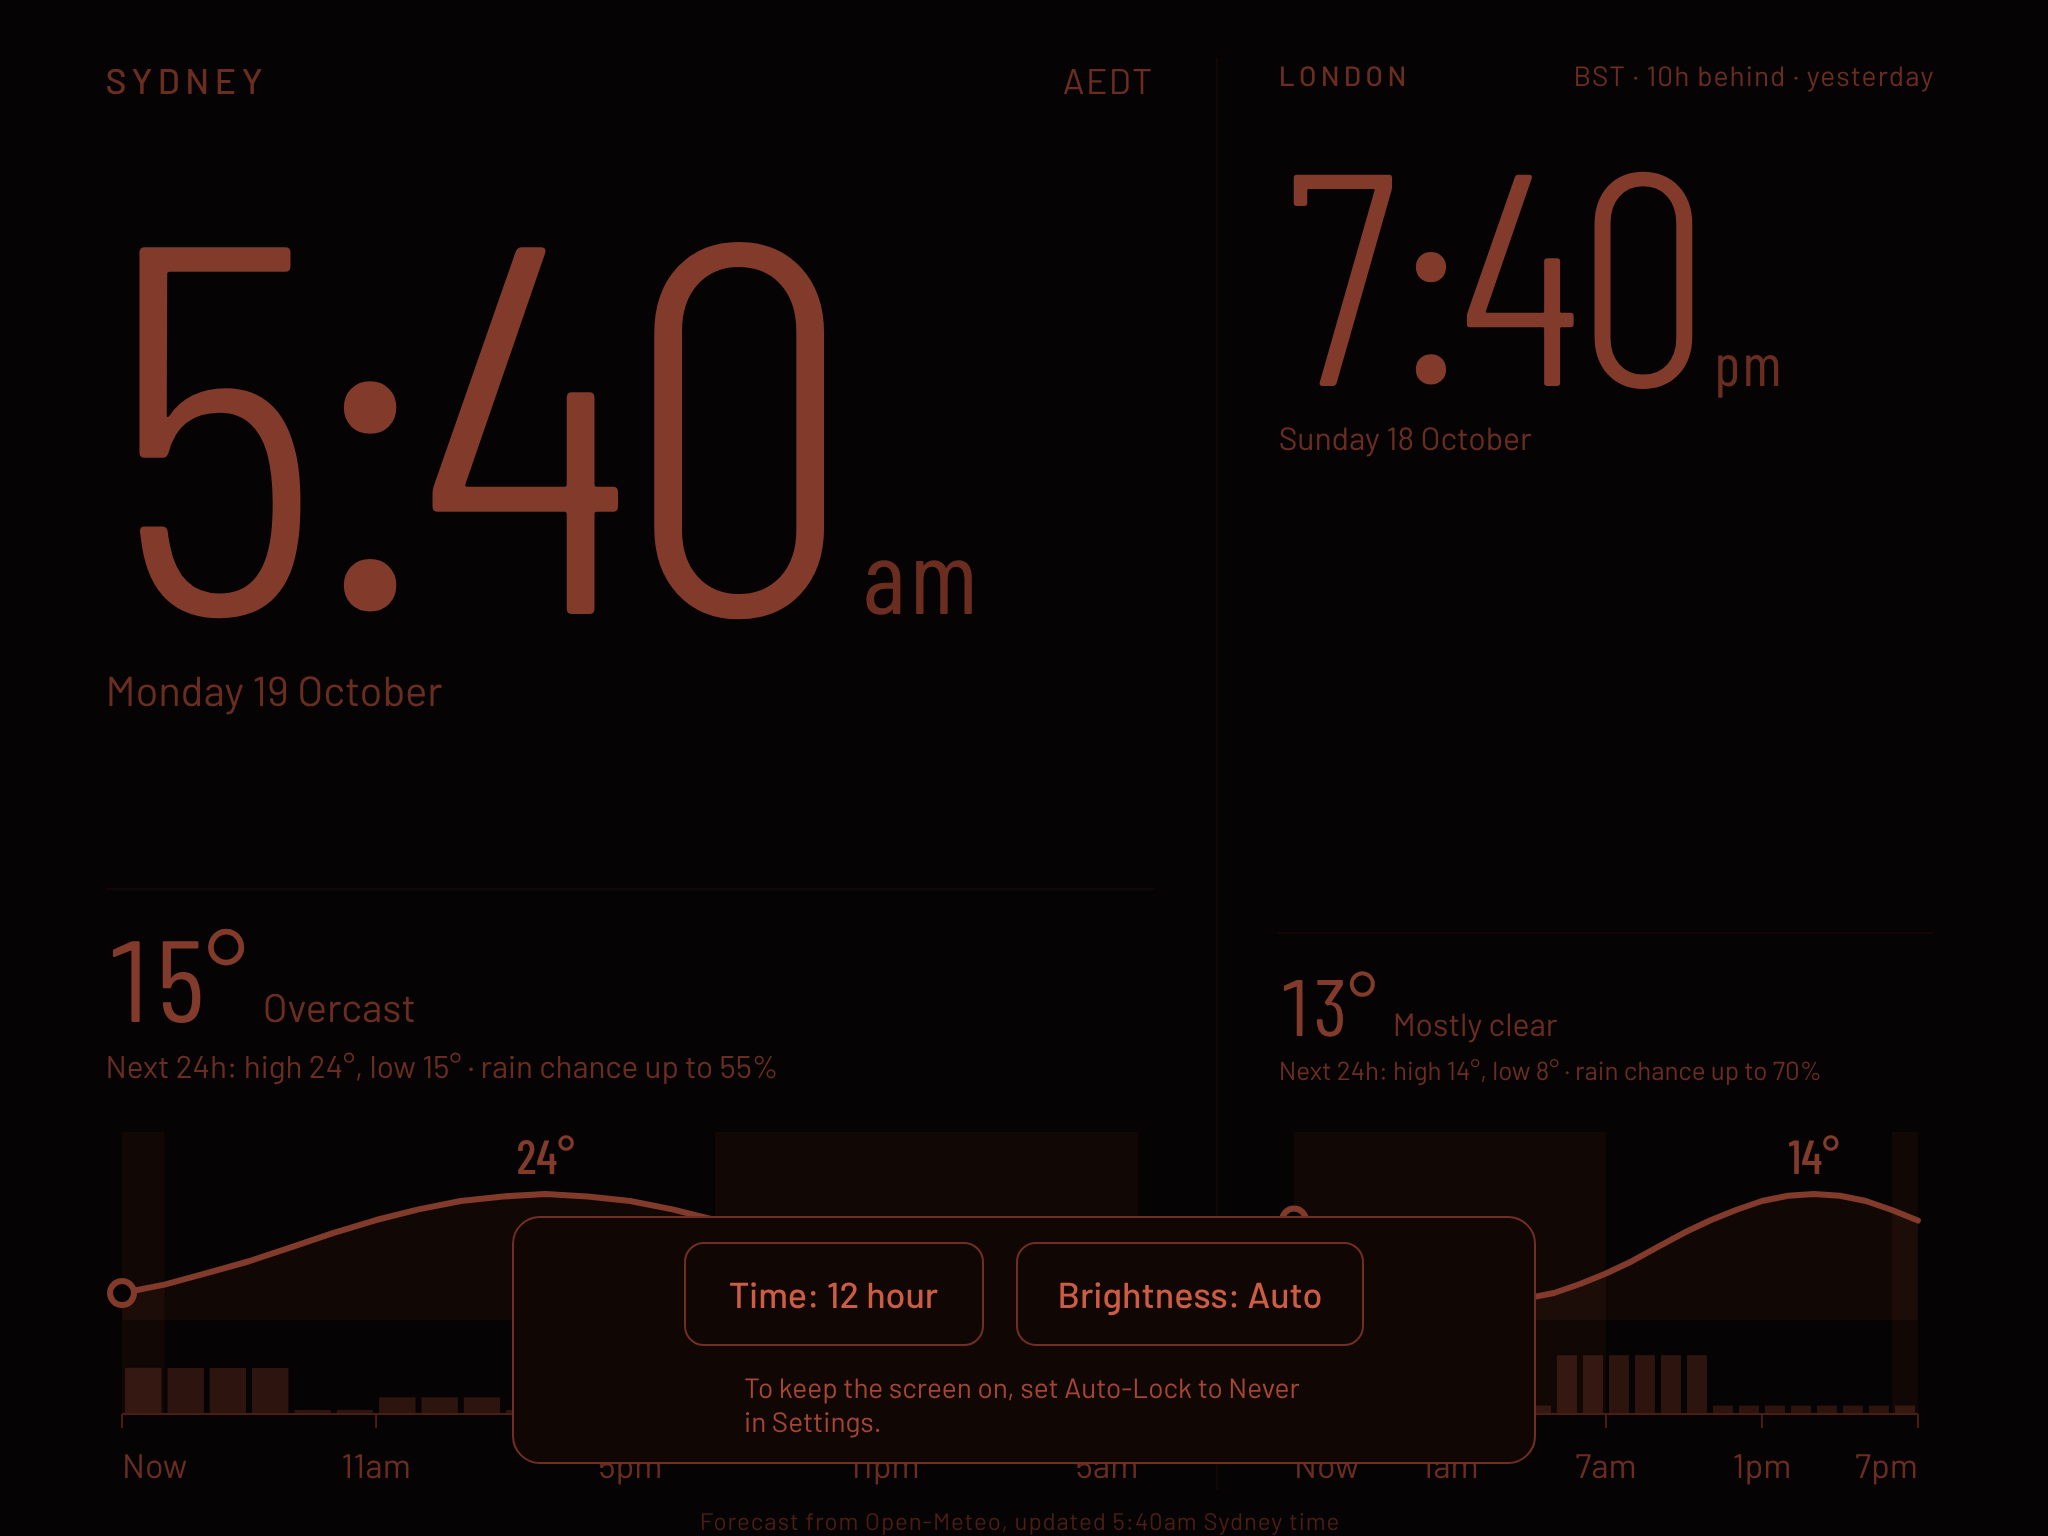
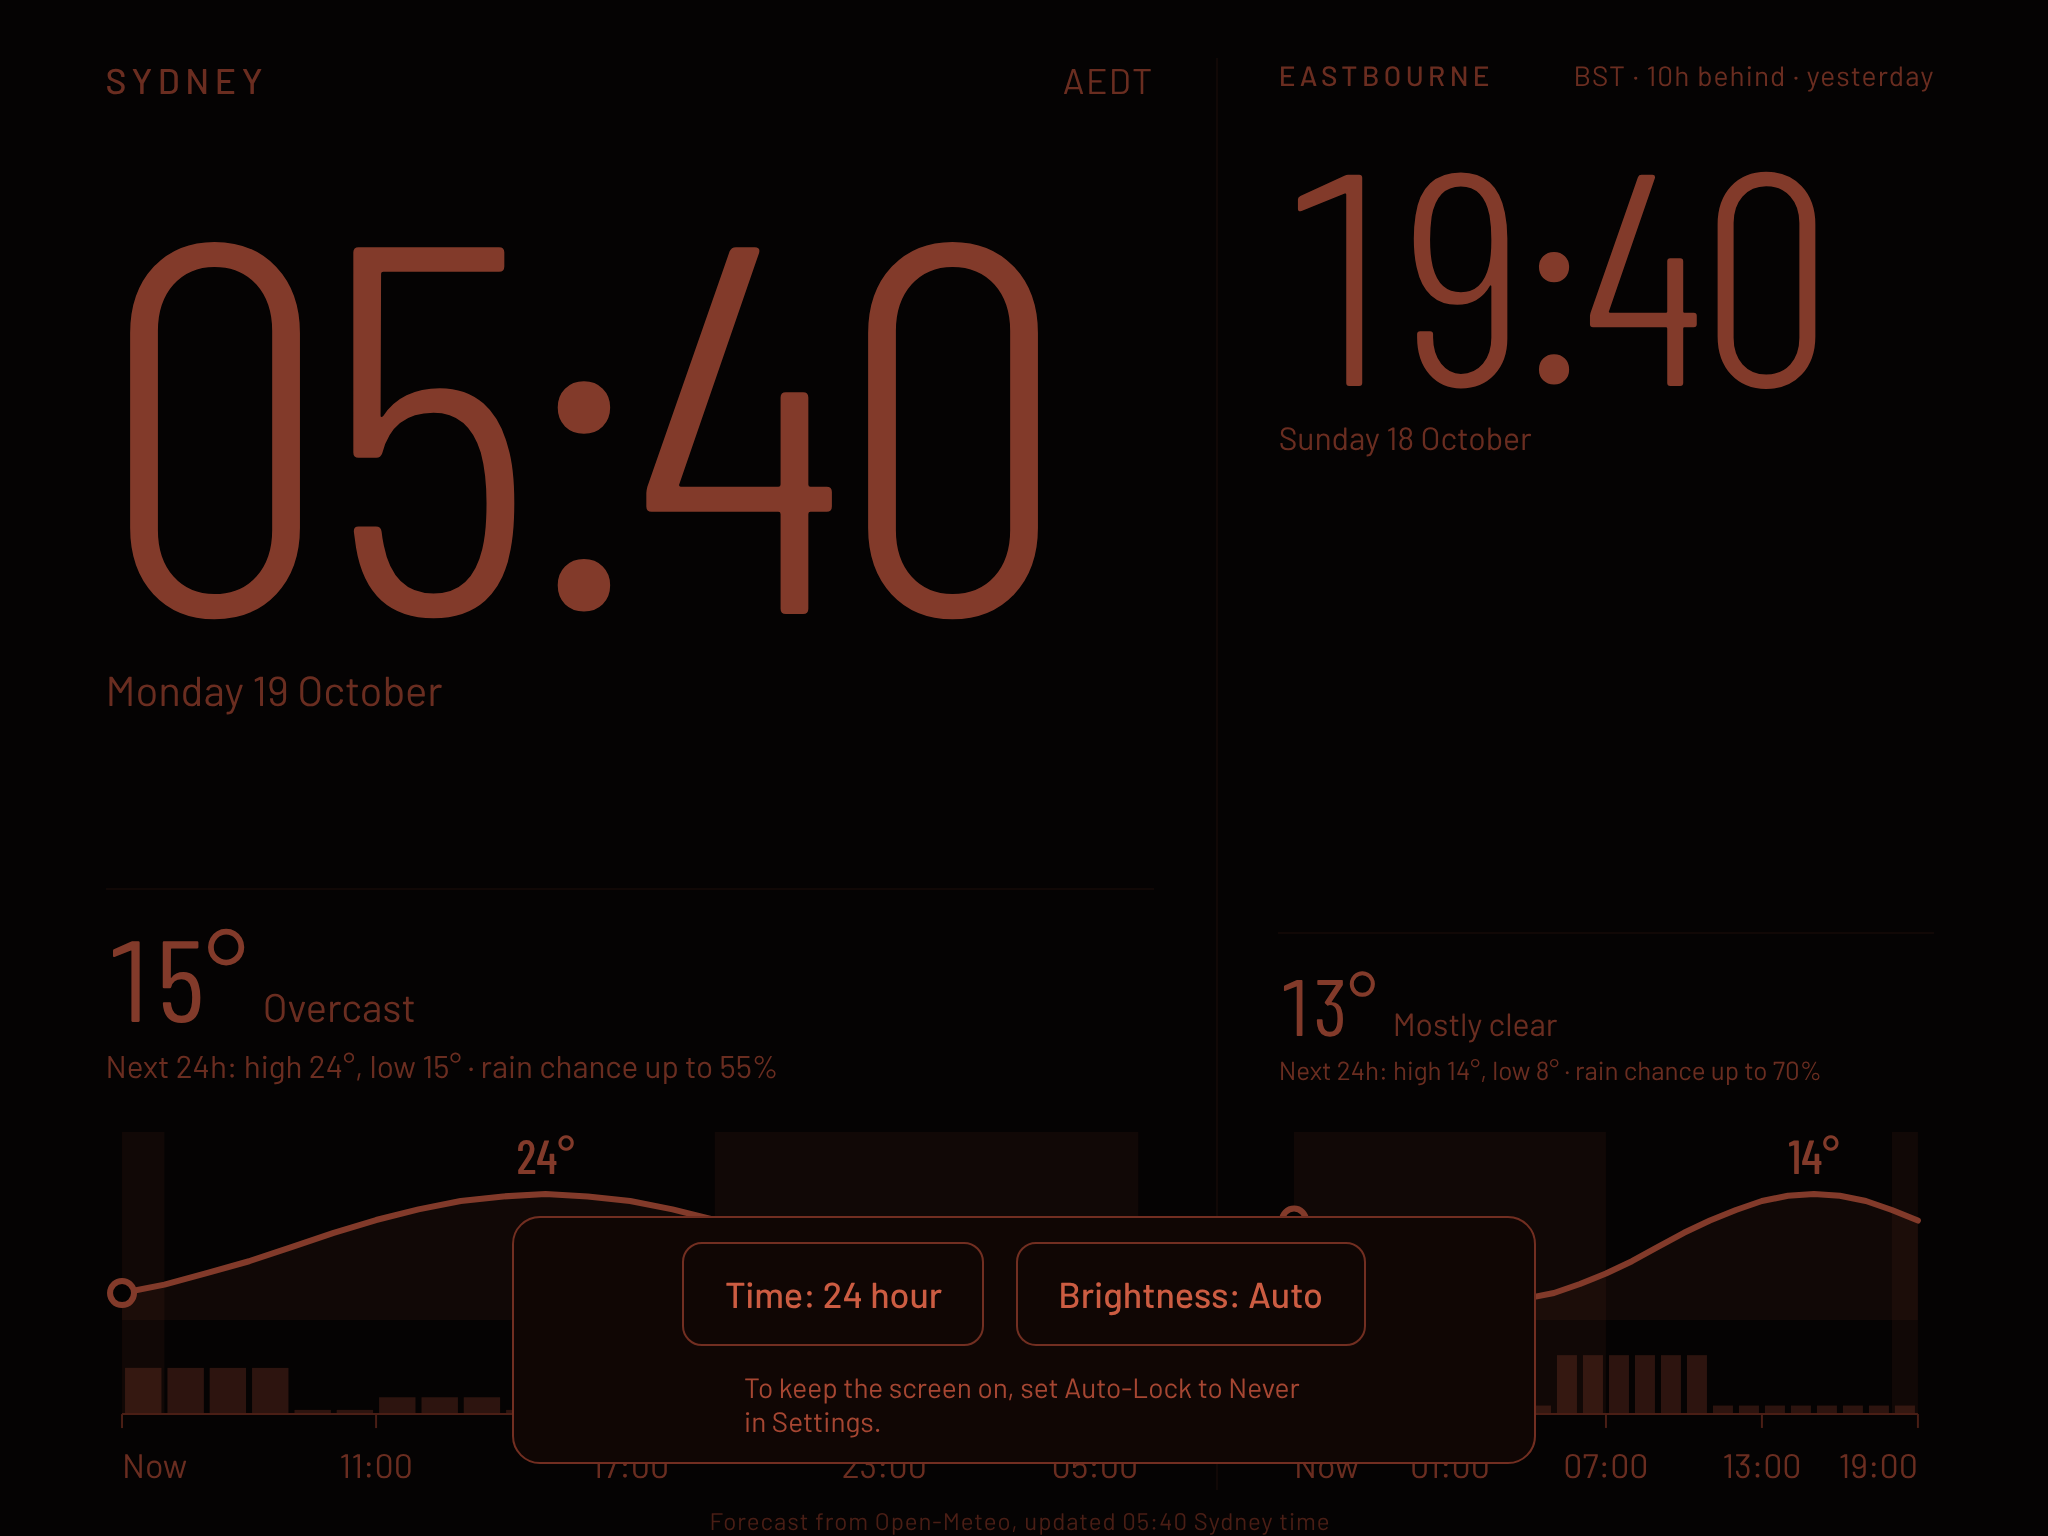
Use Eastbourne for the UK clock, default to 24 hour, landscape first
Customer decisions from the first show and tell: second place is
Eastbourne, East Sussex; 24 hour time by default; landscape layout.

Claude-Session: https://claude.ai/code/session_01LHKBPoX4shMzbvKjK3tPdX

diff --git a/app.js b/app.js
@@ -1,13 +1,13 @@
-/* Night Clock: Sydney and London time, plus a 24 hour forecast for both.
+/* Night Clock: Sydney and Eastbourne time, plus a 24 hour forecast for both.
    Plain JavaScript, no build step. Written for Safari 17 (iPad 6th generation). */
 (function () {
   'use strict';
 
   var CITIES = {
     syd: { name: 'Sydney', tz: 'Australia/Sydney', lat: -33.92, lon: 151.13 },
-    lon: { name: 'London', tz: 'Europe/London', lat: 51.51, lon: -0.13 }
+    uk: { name: 'Eastbourne', tz: 'Europe/London', lat: 50.77, lon: 0.29 }
   };
-  var KEYS = ['syd', 'lon'];
+  var KEYS = ['syd', 'uk'];
   var MONTHS = ['January', 'February', 'March', 'April', 'May', 'June', 'July',
                 'August', 'September', 'October', 'November', 'December'];
   var DIM_MODES = ['auto', 'bright', 'dim', 'dimmest'];
@@ -35,7 +35,7 @@
     }
   };
 
-  var hour12 = store.get('hour12', true) !== false;
+  var hour12 = store.get('hour12', false) === true;  // 24 hour unless the user switches
   var dimMode = store.get('dim', 'auto');
   if (DIM_MODES.indexOf(dimMode) < 0) dimMode = 'auto';
 
@@ -72,7 +72,7 @@
   }
 
   function zoneName(key, off) {
-    if (key === 'lon') return off === 0 ? 'GMT' : off === 60 ? 'BST' : offsetText(off);
+    if (key === 'uk') return off === 0 ? 'GMT' : off === 60 ? 'BST' : offsetText(off);
     return off === 660 ? 'AEDT' : off === 600 ? 'AEST' : offsetText(off);
   }
 
@@ -130,12 +130,12 @@
 
     setText(els.syd.meta, 'sydmeta', zoneName('syd', off.syd));
 
-    var gapMin = off.syd - off.lon;
+    var gapMin = off.syd - off.uk;
     var gapH = Math.abs(gapMin) / 60;
     var gapText = (gapH % 1 ? gapH.toFixed(1) : gapH) + 'h ' + (gapMin >= 0 ? 'behind' : 'ahead');
-    var dk = dayKey(z.lon) - dayKey(z.syd);
+    var dk = dayKey(z.uk) - dayKey(z.syd);
     var dayWord = dk < 0 ? ' · yesterday' : dk > 0 ? ' · tomorrow' : '';
-    setText(els.lon.meta, 'lonmeta', zoneName('lon', off.lon) + ' · ' + gapText + dayWord);
+    setText(els.uk.meta, 'ukmeta', zoneName('uk', off.uk) + ' · ' + gapText + dayWord);
 
     // brightness
     var level = dimMode === 'auto'
@@ -187,8 +187,8 @@
 
   function loadWeather() {
     var url = 'https://api.open-meteo.com/v1/forecast'
-      + '?latitude=' + CITIES.syd.lat + ',' + CITIES.lon.lat
-      + '&longitude=' + CITIES.syd.lon + ',' + CITIES.lon.lon
+      + '?latitude=' + CITIES.syd.lat + ',' + CITIES.uk.lat
+      + '&longitude=' + CITIES.syd.lon + ',' + CITIES.uk.lon
       + '&hourly=temperature_2m,precipitation_probability,weather_code,is_day'
       + '&timezone=GMT&forecast_days=3';
     var ctl = typeof AbortController !== 'undefined' ? new AbortController() : null;
@@ -201,7 +201,7 @@
       })
       .then(function (data) {
         var arr = Array.isArray(data) ? data : [data];
-        var next = { fetchedAt: Date.now(), syd: parseCity(arr[0]), lon: parseCity(arr[1]) };
+        var next = { fetchedAt: Date.now(), syd: parseCity(arr[0]), uk: parseCity(arr[1]) };
         weather = next;
         store.set('wx', next);
         renderWeather();

diff --git a/index.html b/index.html
@@ -39,22 +39,22 @@
     </div>
   </section>
 
-  <section class="city" id="city-lon" aria-label="London">
+  <section class="city" id="city-uk" aria-label="Eastbourne">
     <div class="top">
       <header class="city-head">
-        <span class="city-name">London</span>
-        <span class="city-meta" id="lon-meta"></span>
+        <span class="city-name">Eastbourne</span>
+        <span class="city-meta" id="uk-meta"></span>
       </header>
-      <div class="time"><span id="lon-hm">--:--</span><span class="ap" id="lon-ap"></span></div>
-      <div class="date" id="lon-date"></div>
+      <div class="time"><span id="uk-hm">--:--</span><span class="ap" id="uk-ap"></span></div>
+      <div class="date" id="uk-date"></div>
     </div>
     <div class="wx">
       <div class="wx-now">
-        <span class="wx-temp" id="lon-temp">--°</span>
-        <span class="wx-desc" id="lon-desc">Loading forecast</span>
+        <span class="wx-temp" id="uk-temp">--°</span>
+        <span class="wx-desc" id="uk-desc">Loading forecast</span>
       </div>
-      <div class="wx-range" id="lon-range"></div>
-      <div class="wx-chart" id="lon-chart"></div>
+      <div class="wx-range" id="uk-range"></div>
+      <div class="wx-chart" id="uk-chart"></div>
     </div>
   </section>
 

diff --git a/styles.css b/styles.css
@@ -188,7 +188,7 @@ body { font-family: var(--body); }
   #app { padding-top: max(20px, env(safe-area-inset-top)); padding-bottom: max(24px, env(safe-area-inset-bottom)); }
   .city { gap: 8px; }
   #city-syd .time { font-size: 21cqw; }
-  #city-lon .time { font-size: 18cqw; }
+  #city-uk .time { font-size: 18cqw; }
   .wx { padding-top: 8px; }
   .wx-temp { font-size: 52px; }
 }

diff --git a/docs/requirements.md b/docs/requirements.md
@@ -5,7 +5,7 @@ Working agreement: small increments, a show and tell after each one, and the cus
 
 ## Vision
 
-An old iPad (6th generation) lives on a bedside table and works as a night clock. At a glance, in the dark, it shows the time in Sydney and London and the weather for the next 24 hours in both places. It never lights up the room.
+An old iPad (6th generation) lives on a bedside table and works as a night clock. At a glance, in the dark, it shows the time in Sydney and in the UK (Eastbourne) and the weather for the next 24 hours in both places. It never lights up the room.
 
 ## Constraints
 
@@ -22,13 +22,13 @@ Status key: Built means the code exists and passed my own render checks. Accepte
 | ID | Story | Acceptance criteria | Status |
 |----|-------|---------------------|--------|
 | S1 | As the sleeper, I can read the Sydney time at a glance in a dark room. | Large digits, warm red on black, readable from across the room, no seconds ticking. | Built |
-| S2 | I can see the London time and how far apart the two cities are. | London time shown with its zone (GMT or BST), the gap in hours, and whether it is yesterday or tomorrow there. Correct across both daylight saving changes. | Built |
+| S2 | I can see the UK time and how far apart the two places are. | Eastbourne (UK) time shown with its zone (GMT or BST), the gap in hours, and whether it is yesterday or tomorrow there. Correct across both daylight saving changes. | Built |
 | S3 | The screen dims itself at night and I can override it. | Auto mode dims between 9pm and 6am Sydney time. Tap to choose Auto, Bright, Dim or Dimmest. Choice is remembered. | Built |
-| S4 | I can see the forecast for the next 24 hours in both cities. | Per city: temperature now, conditions, high and low, rain chance, and an hourly chart for the next 24 hours with night hours shaded. Refreshes by itself every 30 minutes. | Built |
+| S4 | I can see the forecast for the next 24 hours in both cities. | Per place: temperature now, conditions, high and low, rain chance, and an hourly chart for the next 24 hours with night hours shaded. Refreshes by itself every 30 minutes. | Built |
 | S5 | The display keeps working if the network drops. | Last forecast is kept and shown, with a note of when it was fetched. Clock never depends on the network. | Built |
 | S6 | The screen protects itself from burn-in. | Content shifts a few pixels every minute. | Built |
 | S7 | I can put it on the Home Screen and it opens full screen. | Home Screen icon, no Safari toolbar, black status bar. | Built |
-| S8 | I can switch between 12 and 24 hour time. | One tap, remembered. Also applies to the chart hour labels. | Built |
+| S8 | I can switch between 24 and 12 hour time. | 24 hour by default. One tap to switch, remembered. Also applies to the chart hour labels. | Built |
 
 ## Ideas, not yet prioritised
 
@@ -41,13 +41,17 @@ Status key: Built means the code exists and passed my own render checks. Accepte
 - Editable auto-dim hours.
 - Service worker so the page loads with no network at all.
 
+## Decisions from the customer (19 Oct 2026)
+
+- Layout: landscape. Portrait stays working but is not tuned further.
+- Time format: 24 hour by default.
+- Weather locations: Eastbourne, East Sussex and Earlwood, Sydney. The second clock is labelled Eastbourne and uses UK time, same as London.
+- Repository: named `night-clock` under the customer's GitHub account. Customer to create it, as the build session cannot create repositories.
+
 ## Open questions for the customer
 
-1. 12 hour or 24 hour as the default? (Built as 12 hour, one tap to change.)
-2. Will the iPad sit in landscape or portrait? Both layouts exist, I want to tune the one you use.
-3. Red or amber digits? (Built as warm red-orange, the least disruptive to night vision.)
-4. Which part of London and Sydney should the weather use? (Built as central London and Earlwood.)
-5. Is a public GitHub repository acceptable? It is needed for free GitHub Pages hosting.
+1. Red or amber digits? (Built as warm red-orange, the least disruptive to night vision.)
+2. Is a public GitHub repository acceptable? It is needed for free GitHub Pages hosting.
 
 ## Assumptions made in increment 1
 
@@ -73,10 +77,10 @@ Status key: Built means the code exists and passed my own render checks. Accepte
 
 | # | Scope | Show and tell |
 |---|-------|---------------|
-| 1 | S1 to S8 as a first working version | Screenshots of landscape and portrait with sample forecast data |
+| 1 | S1 to S8 as a first working version | Screenshots of landscape and portrait with sample forecast data. Done, feedback recorded below |
 
 ## Feedback log
 
 | Date | Increment | Feedback | Decision |
 |------|-----------|----------|----------|
-| | | | |
+| 19 Oct 2026 | 1 | Landscape, 24 hour, locations Eastbourne and Earlwood, repo named night-clock | Applied the same day |

diff --git a/README.md b/README.md
@@ -1,6 +1,6 @@
 # Night Clock
 
-A bedside clock for an old iPad (6th generation, iPadOS 17). It shows the time in Sydney and London, how far apart they are, and the weather for the next 24 hours in both cities. Warm red on black, dims itself at night.
+A bedside clock for an old iPad (6th generation, iPadOS 17). It shows the time in Sydney and the UK (Eastbourne), how far apart they are, and the weather for the next 24 hours in both places. Warm red on black, dims itself at night.
 
 ![Landscape](docs/screenshots/landscape.png)
 
@@ -19,17 +19,17 @@ Plain HTML, CSS and JavaScript. No build step, no dependencies, no API keys. For
 
 Tap anywhere to show the controls for eight seconds.
 
-- Time: switch between 12 hour and 24 hour.
+- Time: switch between 24 hour (the default) and 12 hour.
 - Brightness: Auto (dim between 9pm and 6am Sydney time), Bright, Dim, Dimmest.
 
-Choices are remembered on the iPad. The layout adapts to landscape and portrait.
+Choices are remembered on the iPad. Landscape is the main layout. Portrait also works.
 
 ## What it does for a night screen
 
 - The picture shifts a few pixels every minute to protect the display.
 - If the network drops, the last forecast stays on screen with the time it was fetched.
 - The page reloads itself once a day around 3am Sydney time to pick up new versions.
-- Daylight saving is handled by the browser's time zone data, so the London gap changes correctly (10 hours now, 11 hours after the UK clocks go back on 25 October 2026).
+- Daylight saving is handled by the browser's time zone data, so the gap to the UK changes correctly (10 hours now, 11 hours after the UK clocks go back on 25 October 2026).
 
 ## Run it on a computer
 
@@ -52,4 +52,4 @@ Then open http://localhost:8000.
 ## Known limits
 
 - iPadOS 17 may not honour the screen wake lock for Home Screen apps, so Auto-Lock set to Never is the reliable way to keep the screen on.
-- Forecast locations are central London and Earlwood in Sydney. They are set at the top of `app.js`.
+- Forecast locations are Eastbourne, East Sussex and Earlwood in Sydney. They are set at the top of `app.js`.
